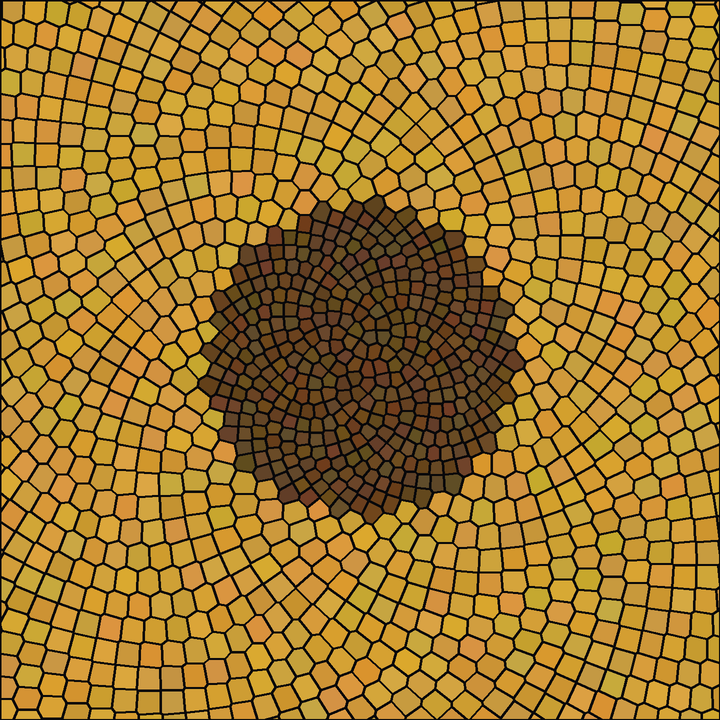
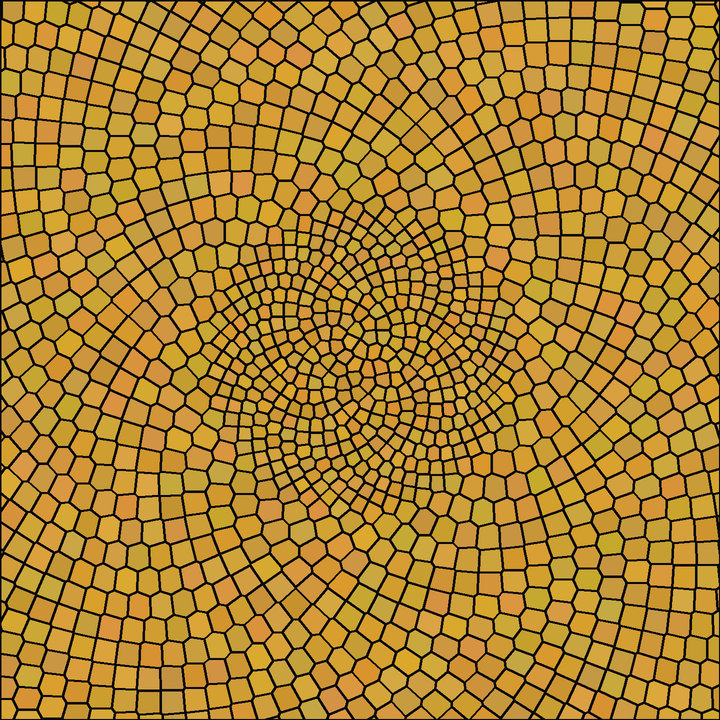
feat(tools): sunflower rev 4 - rhombs nopole/funnel/star do assets, disc bez ciemnego dysku
Werdykt usera: propozycje srodka 1-3 zaakceptowane (star2/chunky odrzucone,
generatory usuniete). sunflower_disc: jedna zlota paleta - kontrast stref
niesie sama geometria, kolory kafli i tak zastapia zdjecia.

Changed region(s): [[0.275, 0.275, 0.7333, 0.7333]]

diff --git a/src/tools/gen_sunflower_schemes.py b/src/tools/gen_sunflower_schemes.py
@@ -6,14 +6,16 @@ theta = n * golden angle (137.508 deg). Every variant is a TRUE tessellation
 (cells abut exactly): Voronoi = partition by construction, the rhombs mesh is
 verified numerically (raster gap/overlap report).
 
-Verdict rev 3 (user, 2026-07-05): 7 schemes ACCEPTED - rendered straight into
-assets/shape_schemes/ like every other shape scheme:
+Verdict rev 4 (user, 2026-07-06): 10 schemes ACCEPTED - rendered straight
+into assets/shape_schemes/ like every other shape scheme:
 
   classic-family (uniform seeds, structurally distinct from bloom):
   1. sunflower_soft   - Vogel Voronoi after 2 Lloyd relaxations: rounder,
                         more even "pebble" seeds, spiral arms preserved
-  2. sunflower_disc   - two-zone head like a real flower: fine dark disc
-                        florets in the centre, coarser golden seeds outside
+  2. sunflower_disc   - two-zone head like a real flower: fine disc florets
+                        in the centre, coarser seeds outside; single gold
+                        palette per verdict rev 4 (photos replace tiles, so
+                        the geometry alone carries the two zones)
   3. sunflower_rings  - seed radii softly snapped to concentric rows: seeds
                         line up in circular courses (reference photo 1)
 
@@ -25,19 +27,21 @@ assets/shape_schemes/ like every other shape scheme:
   7. grande_inverse   - reversed gradient r = c*n^0.40: large seeds in the
                         centre shrinking toward a fine rim
 
-`sunflower_rhombs` (log-spiral parastichy quad mesh 21/34) is the one
-REJECTED-in-part scheme: the mesh itself is fine, but all 3 centre attempts
-(fan of 55 wedges, per-edge rings, scaled loop) failed the rev 3 verdict
-"the centre must not differ IN SHAPE from the surrounding rhombi".
-This script therefore also renders 5 NEW centre proposals (verdict pending):
-nopole / funnel / star / star2 / chunky -> montage in output/.
+  rhombs-family (log-spiral parastichy quad mesh; centre proposals verdict
+  rev 4 - the 3 winners below; star2/chunky REJECTED, generators removed,
+  git history keeps them):
+  8. rhombs_nopole    - pole outside the frame (nautilus precedent): the
+                        frame holds nothing but proper mesh rhombi (34/55)
+  9. rhombs_funnel    - quad rings 28 -> 14 -> 7 closed by one small 7-gon
+                        tile at the pole
+  10. rhombs_star     - rosette of 14 TRUE rhombi meeting at the pole,
+                        bridged to the mesh by two interpolated quad rings
 
 Pure PIL + numpy + scipy, deterministic. ASCII-only prints.
 
 Outputs:
-  assets/shape_schemes/<name>.png                       (7 accepted schemes)
-  output/sunflower_proposals/rhombs_<variant>.png       (5 centre proposals)
-  output/sunflower_proposals/rhombs_center_proposals.png (montage 3x2)
+  assets/shape_schemes/<name>.png   (10 accepted schemes; rhombs variants
+                                     also get a raster gap/overlap report)
 
 Run:
   C:/Users/plazo/miniconda3/envs/mosaic/python.exe -m src.tools.gen_sunflower_schemes
@@ -46,12 +50,11 @@ import math
 from pathlib import Path
 
 import numpy as np
-from PIL import Image, ImageDraw, ImageFont
+from PIL import Image, ImageDraw
 from scipy.spatial import Voronoi
 
 from src.tools.gen_fable_shape_schemes import render, vary, _clip_rect
 
-OUT_DIR = Path("output/sunflower_proposals")
 R = 1.0                                  # world half-size: frame [-R, R]^2
 GOLDEN = math.pi * (3 - math.sqrt(5))    # 137.508 deg
 
@@ -149,7 +152,8 @@ def gen_sunflower_soft():
 
 
 # ---------------------------------------------------------------------------
-# 2. disc: fine dark centre florets, coarser golden rim (real head anatomy)
+# 2. disc: fine centre florets, coarser rim (real head anatomy); one palette -
+# the size contrast alone separates the zones (photos replace tile colors)
 # ---------------------------------------------------------------------------
 def gen_sunflower_disc():
     rng = np.random.default_rng(52)
@@ -167,13 +171,9 @@ def gen_sunflower_disc():
             rr = math.sqrt(disc_r ** 2 + (c2 ** 2) * (n - K))
         aa = n * GOLDEN
         pts[n - 1] = (rr * math.cos(aa), rr * math.sin(aa))
-    dark = (104, 70, 34)
     polys = []
     for i, cl in voronoi_cells(pts):
-        if i < K:
-            polys.append((cl, vary(rng, dark, 10)))
-        else:
-            polys.append((cl, vary(rng, GOLD, 12)))
+        polys.append((cl, vary(rng, GOLD, 12)))
     return polys, (-R, -R, R, R)
 
 
@@ -204,10 +204,7 @@ def gen_sunflower_rings():
 
 
 # ---------------------------------------------------------------------------
-# C. parastichy rhombs (13, 21) + fan centre
-# ---------------------------------------------------------------------------
-# ---------------------------------------------------------------------------
-# rhombs family: log-spiral parastichy quad mesh + 5 centre proposals
+# rhombs family: log-spiral parastichy quad mesh + 3 accepted centre variants
 #
 # LOG-spiral lattice r = r0*exp(k*n), theta = n*golden angle: every quad is a
 # rotated+scaled copy of its neighbour (self-similar), so a fixed parastichy
@@ -216,7 +213,7 @@ def gen_sunflower_rings():
 # of the mesh ALWAYS has F1+F2 boundary edges regardless of where the mesh is
 # stopped (self-similarity), so the centre problem cannot be shrunk away -
 # it must be closed with cells. Verdict rev 3 (user): the centre cells must
-# not differ IN SHAPE from the surrounding rhombi -> 5 proposals below, all
+# not differ IN SHAPE from the surrounding rhombi - all variants below are
 # quad/rhombus-shaped (fans, petals and bare circles are out).
 # ---------------------------------------------------------------------------
 def _log_mesh(F1, F2, r0, k, N0, N, pole=(0.0, 0.0)):
@@ -306,28 +303,18 @@ def _circle_pts(T, radius, rot):
              radius * math.sin(rot + j * step)) for j in range(T)]
 
 
-def _rosette(m, r_side, rot, layers=1):
+def _rosette(m, r_side, rot):
     """Rosette of TRUE rhombi meeting at the pole: m rhombi with apex 2*pi/m
-    and side r_side (layers=2 adds m more rhombi girih-style). Returns
-    (cells, zigzag outer boundary of 2m vertices)."""
+    and side r_side. Returns (cells, zigzag outer boundary of 2m vertices)."""
     step = 2 * math.pi / m
     S = [(r_side * math.cos(rot + j * step),
           r_side * math.sin(rot + j * step)) for j in range(m)]
     F = [(S[j][0] + S[(j + 1) % m][0], S[j][1] + S[(j + 1) % m][1])
          for j in range(m)]
     cells = [[(0.0, 0.0), S[j], F[j], S[(j + 1) % m]] for j in range(m)]
-    if layers == 1:
-        zig = []
-        for j in range(m):
-            zig.extend((S[j], F[j]))
-        return cells, zig
-    G = [(F[j][0] + F[(j + 1) % m][0] - S[(j + 1) % m][0],
-          F[j][1] + F[(j + 1) % m][1] - S[(j + 1) % m][1]) for j in range(m)]
-    for j in range(m):
-        cells.append([S[(j + 1) % m], F[j], G[j], F[(j + 1) % m]])
     zig = []
     for j in range(m):
-        zig.extend((F[j], G[j]))
+        zig.extend((S[j], F[j]))
     return cells, zig
 
 
@@ -370,7 +357,7 @@ def _rh_mesh(N0=380, pole=(0.0, 0.0)):
 
 
 def gen_rhombs_nopole():
-    """Centre proposal 1: NO centre at all - the pole sits outside the frame
+    """Centre variant 1: NO centre at all - the pole sits outside the frame
     (nautilus precedent: log-spiral, singularity out of view), so the frame
     contains nothing but proper mesh rhombi. Denser parastichy pair (34, 55)
     compensates for the frame sitting far from the pole (cell size grows with
@@ -388,7 +375,7 @@ def gen_rhombs_nopole():
 
 
 def gen_rhombs_funnel():
-    """Centre proposal 2: funnel of quad rings 28 -> 14 -> 7 cells (each ring
+    """Centre variant 2: funnel of quad rings 28 -> 14 -> 7 cells (each ring
     halves the count, so cells keep the mesh-quad aspect instead of turning
     into slivers) closed by a single small 7-gon tile at the pole."""
     rng = np.random.default_rng(62)
@@ -408,7 +395,7 @@ def gen_rhombs_funnel():
 
 
 def gen_rhombs_star():
-    """Centre proposal 3: rosette of 14 TRUE rhombi meeting at the pole,
+    """Centre variant 3: rosette of 14 TRUE rhombi meeting at the pole,
     bridged to the mesh by two interpolated quad rings."""
     rng = np.random.default_rng(63)
     quads, loop = _rh_mesh()
@@ -416,43 +403,7 @@ def gen_rhombs_star():
     polys = _paint_mesh(rng, quads, _RH["F2"])
     bounds = _group_loop(len(loop), 28)
     rot = _align_rot([loop[a] for a, _ in bounds], 28)
-    cells, zig = _rosette(14, 0.36 * r_mean, rot, layers=1)
-    polys.extend(_bridge(rng, loop, zig, bands=2))
-    for j, cell in enumerate(cells):
-        polys.append((cell, vary(rng, OCHRE if j % 2 == 0 else RUST, 10)))
-    return polys, (-R, -R, R, R)
-
-
-def gen_rhombs_star2():
-    """Centre proposal 4: double rosette (14 + 14 true rhombi, girih-style
-    star) - richer pole, shorter bridge (one ring)."""
-    rng = np.random.default_rng(64)
-    quads, loop = _rh_mesh()
-    r_mean = sum(math.hypot(*v) for v in loop) / len(loop)
-    polys = _paint_mesh(rng, quads, _RH["F2"])
-    bounds = _group_loop(len(loop), 28)
-    rot = _align_rot([loop[a] for a, _ in bounds], 28)
-    cells, zig = _rosette(14, 0.26 * r_mean, rot, layers=2)
-    polys.extend(_bridge(rng, loop, zig, bands=1))
-    for j, cell in enumerate(cells):
-        polys.append((cell, vary(rng, OCHRE if j % 2 == 0 else RUST, 10)))
-    return polys, (-R, -R, R, R)
-
-
-def gen_rhombs_chunky():
-    """Centre proposal 5: coarser mesh - parastichy pair (13, 21) with faster
-    growth (fewer, fatter rhombi; 34-edge hole) closed by a rosette of 8
-    true rhombi via a two-ring bridge."""
-    rng = np.random.default_rng(65)
-    F1, F2, r0, k = 13, 21, 0.055, 0.0125
-    N0 = int(math.log(0.20 / r0) / k)
-    N = int(math.log((math.sqrt(2.0) + 0.6) / r0) / k)
-    quads, loop = _log_mesh(F1, F2, r0, k, N0, N)
-    r_mean = sum(math.hypot(*v) for v in loop) / len(loop)
-    polys = _paint_mesh(rng, quads, F2)
-    bounds = _group_loop(len(loop), 16)
-    rot = _align_rot([loop[a] for a, _ in bounds], 16)
-    cells, zig = _rosette(8, 0.40 * r_mean, rot, layers=1)
+    cells, zig = _rosette(14, 0.36 * r_mean, rot)
     polys.extend(_bridge(rng, loop, zig, bands=2))
     for j, cell in enumerate(cells):
         polys.append((cell, vary(rng, OCHRE if j % 2 == 0 else RUST, 10)))
@@ -517,7 +468,7 @@ def gen_grande_inverse():
 
 
 # ---------------------------------------------------------------------------
-# coverage check (variant C is hand-built; Voronoi = partition by construction)
+# coverage check (rhombs meshes are hand-built; Voronoi = partition as such)
 # ---------------------------------------------------------------------------
 def coverage_report(polys, world, res=600):
     """Raster gap/overlap check. NOTE: PIL fills polygon EDGES on both sides
@@ -540,8 +491,10 @@ def coverage_report(polys, world, res=600):
     return gaps, overlaps
 
 
-# Accepted by the user 2026-07-05 (rev 3 verdict) -> rendered straight into
-# assets/shape_schemes/ like every other shape scheme.
+# Accepted by the user (rev 3 verdict 2026-07-05, rhombs centres + disc
+# palette rev 4 2026-07-06) -> rendered straight into assets/shape_schemes/
+# like every other shape scheme. The hand-built rhombs meshes also get the
+# raster gap/overlap report (Voronoi = partition by construction).
 ACCEPTED = [
     ("sunflower_soft", gen_sunflower_soft),
     ("sunflower_disc", gen_sunflower_disc),
@@ -550,65 +503,25 @@ ACCEPTED = [
     ("grande_xl", gen_grande_xl),
     ("grande_soft", gen_grande_soft),
     ("grande_inverse", gen_grande_inverse),
-]
-
-# rhombs centre proposals (verdict pending) -> output/ montage only.
-RHOMBS_PROPOSALS = [
-    ("rhombs_nopole", gen_rhombs_nopole,
-     "1. BEZ BIEGUNA", "biegun poza kadrem (jak nautilus) - same romby"),
-    ("rhombs_funnel", gen_rhombs_funnel,
-     "2. LEJEK 28-14-7", "pierscienie quadow o malejacej liczbie + 1 kafel"),
-    ("rhombs_star", gen_rhombs_star,
-     "3. ROZETA 14", "14 prawdziwych rombow w biegunie + 2 pierscienie"),
-    ("rhombs_star2", gen_rhombs_star2,
-     "4. PODWOJNA ROZETA 14+14", "gwiazda girih z rombow + 1 pierscien"),
-    ("rhombs_chunky", gen_rhombs_chunky,
-     "5. GRUBSZA SIATKA (13/21)", "mniej, wiekszych rombow + rozeta 8"),
+    ("rhombs_nopole", gen_rhombs_nopole),
+    ("rhombs_funnel", gen_rhombs_funnel),
+    ("rhombs_star", gen_rhombs_star),
 ]
 
 ASSETS_DIR = Path("assets/shape_schemes")
 
 
 def main():
-    OUT_DIR.mkdir(parents=True, exist_ok=True)
     ASSETS_DIR.mkdir(parents=True, exist_ok=True)
 
     for name, fn in ACCEPTED:
-        print(f"[sunflower] {name} (accepted) ...")
-        polys, world = fn()
-        render(polys, world).save(ASSETS_DIR / f"{name}.png")
-        print(f"            {len(polys)} cells -> assets/shape_schemes/{name}.png")
-
-    panels = {}
-    for name, fn, t1, t2 in RHOMBS_PROPOSALS:
         print(f"[sunflower] {name} ...")
         polys, world = fn()
-        gaps, overlaps = coverage_report(polys, world)
-        print(f"            coverage: gaps {gaps:.2f}% | overlaps {overlaps:.2f}%")
-        img = render(polys, world)
-        img.save(OUT_DIR / f"{name}.png")
-        panels[name] = img
-        print(f"            {len(polys)} cells -> {name}.png")
-
-    PW, TH = 560, 58
-    cols_n = 3
-    rows_n = (len(RHOMBS_PROPOSALS) + cols_n - 1) // cols_n
-    mont = Image.new("RGB", (PW * cols_n, (PW + TH) * rows_n), (10, 10, 12))
-    draw = ImageDraw.Draw(mont)
-    try:
-        f1 = ImageFont.truetype("arial.ttf", 22)
-        f2 = ImageFont.truetype("arial.ttf", 15)
-    except OSError:
-        f1 = f2 = ImageFont.load_default()
-    for i, (name, _, t1, t2) in enumerate(RHOMBS_PROPOSALS):
-        gx = (i % cols_n) * PW
-        gy = (i // cols_n) * (PW + TH)
-        mont.paste(panels[name].resize((PW, PW), Image.Resampling.LANCZOS),
-                   (gx, gy))
-        draw.text((gx + 12, gy + PW + 6), t1, fill=(235, 235, 235), font=f1)
-        draw.text((gx + 12, gy + PW + 34), t2, fill=(160, 160, 160), font=f2)
-    mont.save(OUT_DIR / "rhombs_center_proposals.png")
-    print(f"[sunflower] montage -> {OUT_DIR / 'rhombs_center_proposals.png'}")
+        if name.startswith("rhombs_"):
+            gaps, overlaps = coverage_report(polys, world)
+            print(f"            coverage: gaps {gaps:.2f}% | overlaps {overlaps:.2f}%")
+        render(polys, world).save(ASSETS_DIR / f"{name}.png")
+        print(f"            {len(polys)} cells -> assets/shape_schemes/{name}.png")
 
 
 if __name__ == "__main__":
